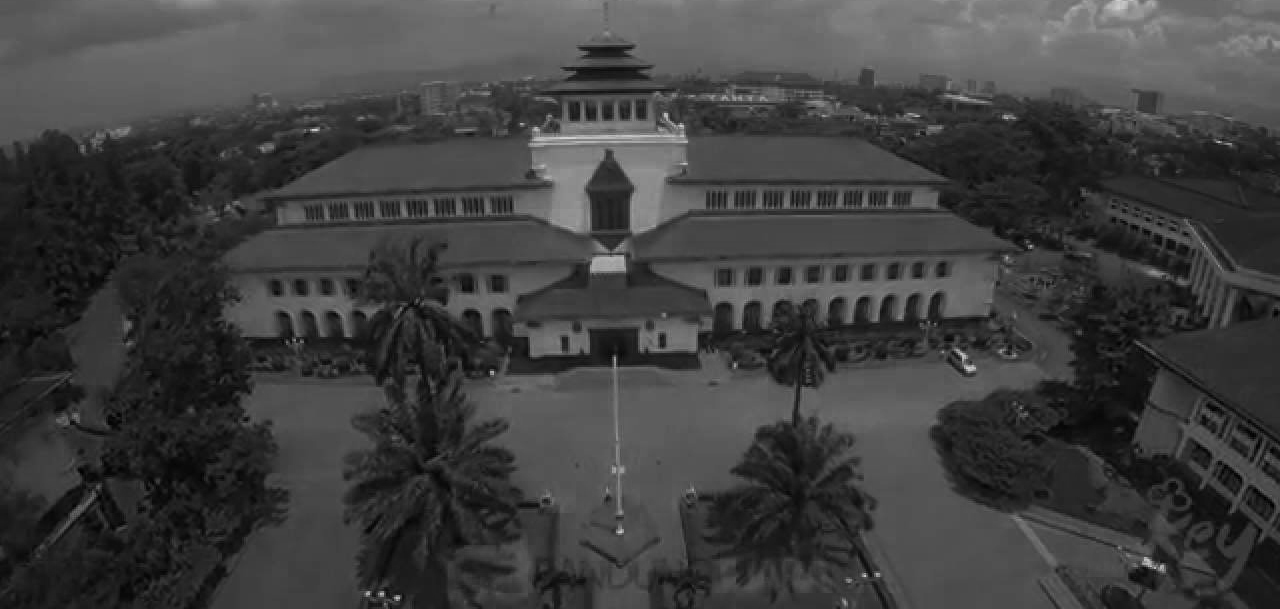
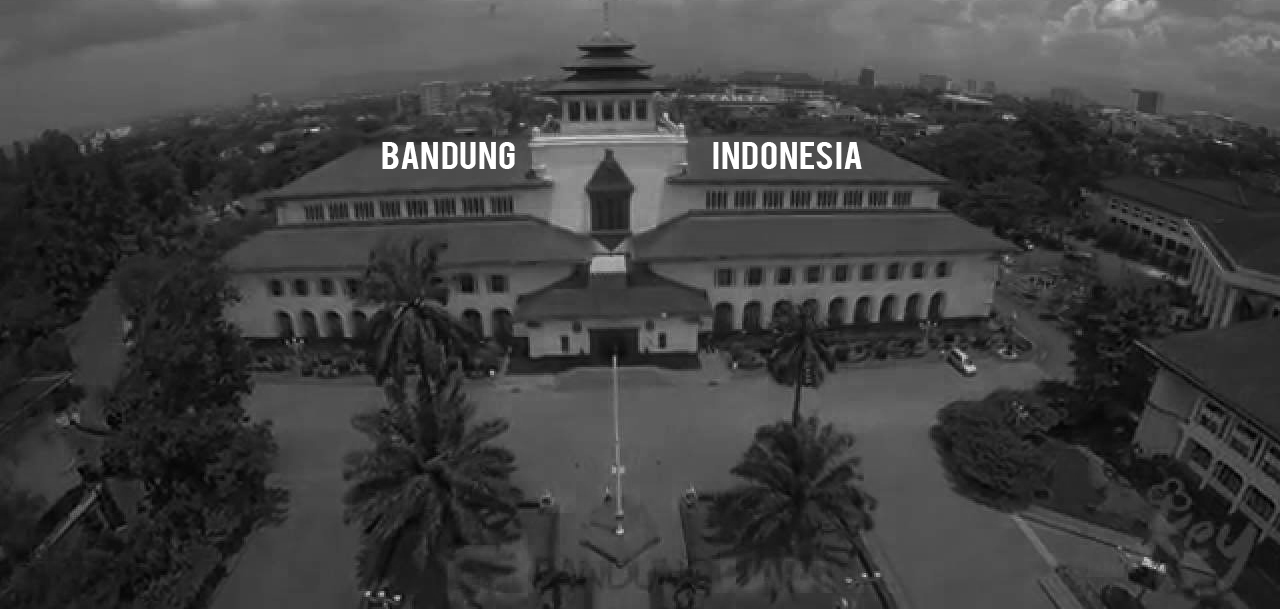
changed head text

Changed region(s): [[0.5312, 0.2184, 0.6875, 0.2808], [0.2812, 0.2184, 0.4062, 0.2808]]

diff --git a/wisata.html b/wisata.html
@@ -67,14 +67,9 @@
         </div>
         <!-- /.container-fluid -->
     </nav>
-    <ul>
-        <li class="liLink">
-            <a href="index.html"> Click here to index.html</a>
-        </li>
-    </ul>
-    <div class="header" style="float: left;height:200px ;width:100%;margin-left:0;margin-right:0">
+   
+    <div class="header" style="float: left;height:200px ;width:100%;margin-left:0;margin-right:0;margin-top: -20px">
 
-        <img src="Text.png" alt="" style="width:500px;padding-left:400px;padding-top:100px" align>
     </div>
     <div class="mapPar" style="margin-top:100px ">
         <img id="imgTravel" src="travelMap.jpg" alt="">
